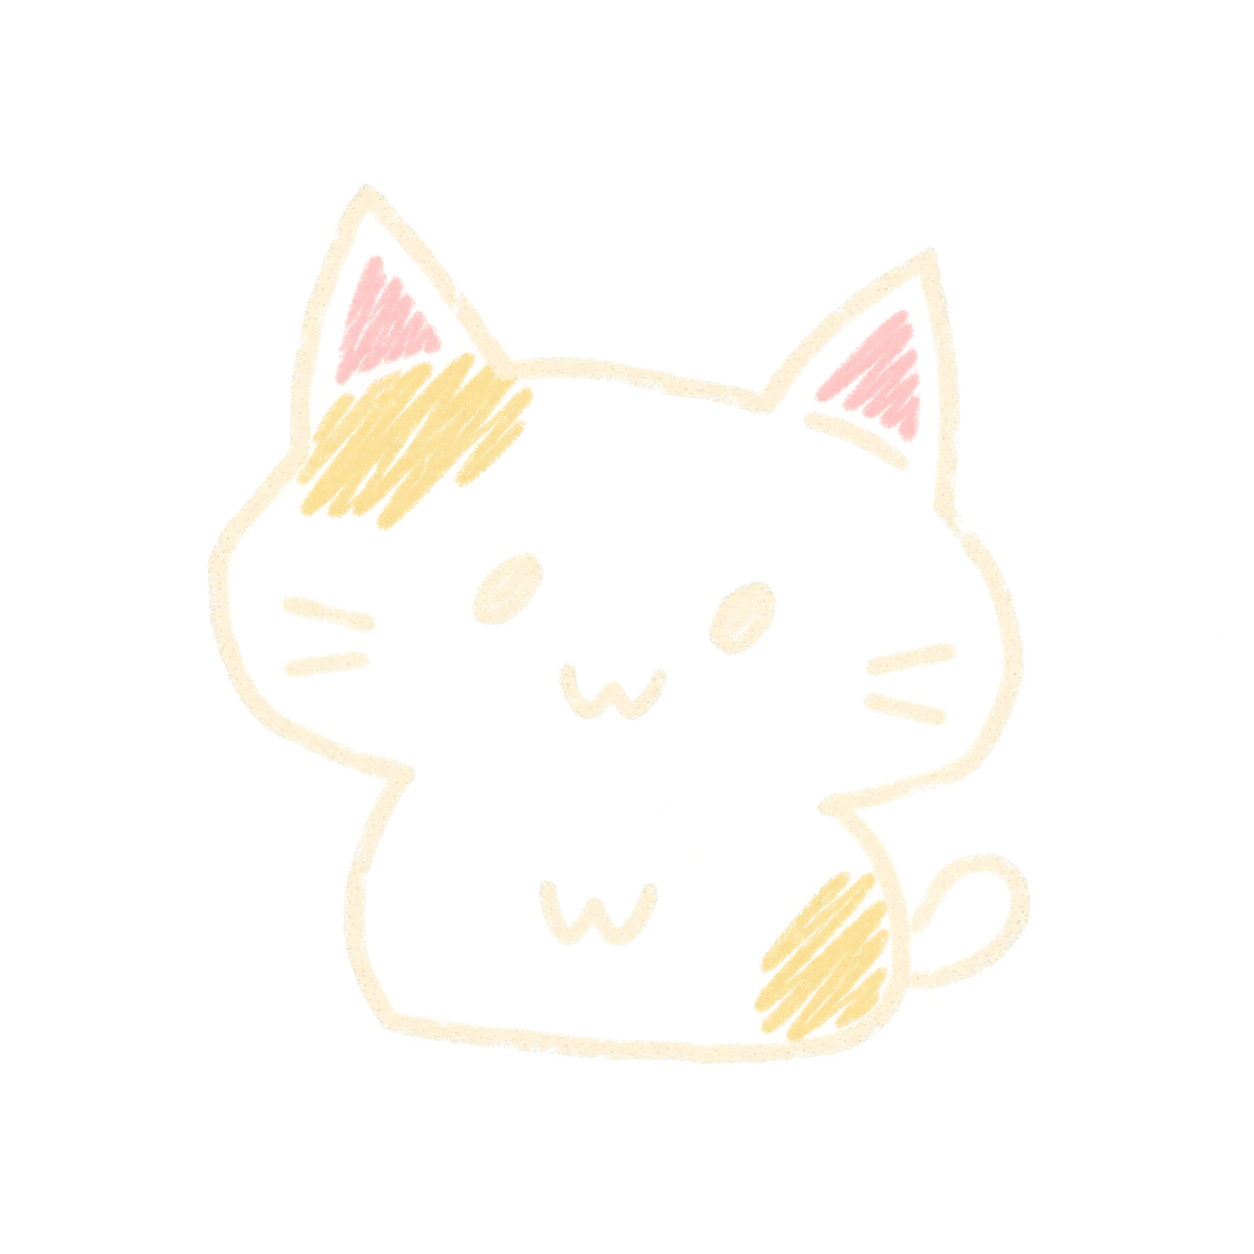
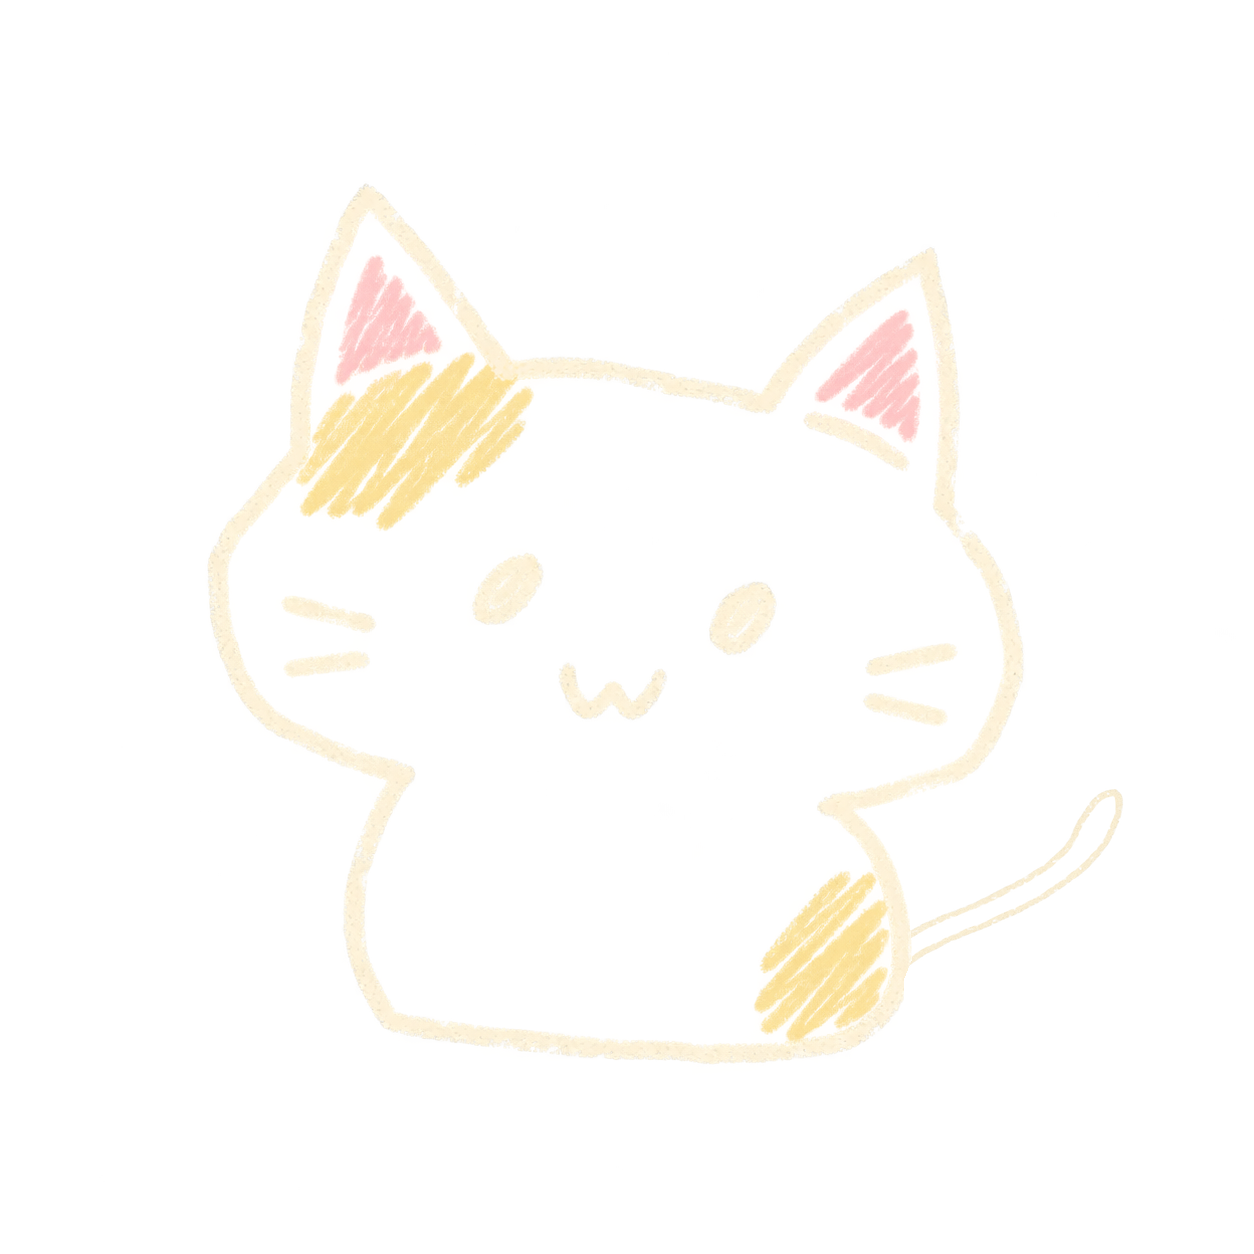
art: refine fixed cat details and match selected balloon reference

Changed region(s): [[0.7153, 0.622, 0.9019, 0.8086], [0.4354, 0.6842, 0.5287, 0.7464]]

diff --git a/public/classroom/chalk/handdrawn/preview.html b/public/classroom/chalk/handdrawn/preview.html
@@ -38,8 +38,8 @@
     <section class="grid" aria-label="四款粉笔图案">
       <article><div class="board"><img class="large" src="heart.webp" alt="柔粉色粉笔爱心" width="512" height="512"><img class="small" src="heart.webp" alt="" width="52" height="52"></div><h2>爱心</h2><div class="files"><a href="heart.webp" download>网页图片</a><a href="heart.png" download>PNG 原图</a></div></article>
       <article><div class="board"><img class="large" src="stars.webp" alt="淡黄、暖白与浅蓝粉笔星星" width="512" height="512"><img class="small" src="stars.webp" alt="" width="52" height="52"></div><h2>星星</h2><div class="files"><a href="stars.webp" download>网页图片</a><a href="stars.png" download>PNG 原图</a></div></article>
-      <article><div class="board"><img class="large" src="balloons.webp?v=7" alt="柔粉、淡黄与浅蓝的三个粉笔气球，绳线带轻微弧度并在中下方汇合" width="512" height="512"><img class="small" src="balloons.webp?v=7" alt="" width="52" height="52"></div><h2>三个气球</h2><div class="files"><a href="balloons.webp" download>网页图片</a><a href="balloons.png" download>PNG 原图</a></div></article>
-      <article><div class="board"><img class="large" src="cat.webp?v=7" alt="暖白粉笔猫咪，双耳大小接近，带淡黄擦涂色块和柔粉耳内" width="512" height="512"><img class="small" src="cat.webp?v=7" alt="" width="52" height="52"></div><h2>猫咪</h2><div class="files"><a href="cat.webp" download>网页图片</a><a href="cat.png" download>PNG 原图</a></div></article>
+      <article><div class="board"><img class="large" src="balloons.webp?v=8" alt="按参考图绘制的淡紫、淡黄与浅蓝三只粉笔气球" width="512" height="512"><img class="small" src="balloons.webp?v=8" alt="" width="52" height="52"></div><h2>三个气球</h2><div class="files"><a href="balloons.webp" download>网页图片</a><a href="balloons.png" download>PNG 原图</a></div></article>
+      <article><div class="board"><img class="large" src="cat.webp?v=8" alt="暖白粉笔猫咪，带淡黄擦涂、柔粉耳内和细长尾巴" width="512" height="512"><img class="small" src="cat.webp?v=8" alt="" width="52" height="52"></div><h2>猫咪</h2><div class="files"><a href="cat.webp" download>网页图片</a><a href="cat.png" download>PNG 原图</a></div></article>
     </section>
     <p class="note">下方小样固定为 52 px。背景颜色来自页面，图片里的空白与粉笔颗粒间隙均为透明区域。</p>
   </main>

diff --git a/public/classroom/chalk/handdrawn/PROMPTS.md b/public/classroom/chalk/handdrawn/PROMPTS.md
@@ -4,7 +4,7 @@
 
 固定配色参考：[原始材质参照](../../../../docs/assets/classroom-approved-material-reference-2026-09-09.png)；配色值来自上一级粉笔素材说明。以下提示词使用文字描述这些要求，生成时没有把旧 SVG 作为编辑目标。
 
-生成图保留真实透明通道；PNG 为未修改的生成原图，WebP 为保持透明度的 512 × 512 网页缩放版本。网页版本仅等比缩小与无损编码，不重新描线或补画。每款对应文件和推荐用法见 [README](README.md)。
+生成图保留真实透明通道。爱心、星星与气球的 PNG 为生成原图，第八版猫咪为保留原图主体的局部合成文件，具体处理见文末记录。WebP 为保持透明度的 512 × 512 网页缩放版本，仅等比缩小与无损编码。每款对应文件和推荐用法见 [README](README.md)。
 
 ## 第一版完整提示词
 
@@ -38,7 +38,7 @@ Subject: ONE very cute simple sitting kitten, front-facing, with a slightly tilt
 
 ## 第二版：气球绳线与猫咪手绘感
 
-2026-09-10，根据用户对气球绳线缺少粉笔感、猫咪过于精致的反馈更新。以下两段是第二版气球和猫咪采用的提示词。第二版气球的粉笔质感获用户认可，后续追加了自然倾角和遮挡关系要求；两款当前采用第七版，见文末记录。爱心和星星沿用第一版。使用内置 imagegen 分别重新生成透明素材，保留原调用地址；前两次图像编辑返回了带棋盘格的非透明文件，未采用。
+2026-09-10，根据用户对气球绳线缺少粉笔感、猫咪过于精致的反馈更新。以下两段是第二版气球和猫咪采用的提示词。第二版气球的粉笔质感获用户认可，后续追加了自然倾角和遮挡关系要求；两款当前采用第八版，见文末记录。爱心和星星沿用第一版。使用内置 imagegen 分别重新生成透明素材，保留原调用地址；前两次图像编辑返回了带棋盘格的非透明文件，未采用。
 
 ### balloons：第二版记录
 
@@ -148,7 +148,7 @@ Add restrained pastel coloring: ONE soft yellow #efd28a patch at upper-left fore
 
 使用内置 imagegen。猫咪的图像编辑尝试未保留真实透明通道，未采用；文字生成的第一张增加了多余的胡须和爪子笔画，采用第二张简化后的透明结果。气球采用第一张文字生成结果。PNG 保留生成原图，WebP 仅等比缩小并无损编码，均通过透明通道检查。旧版存放于 `codex-generated/chalk-handdrawn-2026-09-10/before-revision-7/`。
 
-### balloons：当前版本完整提示词
+### balloons：第七版完整提示词
 
 ```text
 Create ONE isolated transparent PNG web asset of a simple freehand CHALK BUNCH OF THREE BALLOONS. Actual RGBA alpha, no background, no checkerboard, no blackboard or paper. Square composition, clear 10% margin. Three muted pastel balloons: dusty pink #e6b1ba lower-left and in front, pale yellow #efd28a higher middle behind, light blue #a4c5de at right and partly behind pink. Left balloon tilts left about 18 degrees, yellow slightly left about 6 degrees, blue right about 18 degrees. Lopsided hand-drawn elongated ovals with modest overlap, distinct heights, individual small triangular knots. Bodies occupy upper 60% of total drawing height and strings lower 40%.
@@ -156,11 +156,42 @@ MOST IMPORTANT: THREE IVORY CHALK STRINGS WITH JUST A SLIGHT NATURAL ARC, NOT ST
 The strings use the SAME dry chalk thickness as the balloons' colored boundary strokes, about 10-14px at 1254px scale, mildly irregular pressure and tiny chalk skips. Dry chalk grain and transparent gaps break THROUGH the entire line, including its center. Single traces, not double borders, thin pencil, smooth ivory ribbons or thick tubes. Keep rough freehand contours and simple shapes. Interior balloon fills are broad diagonal back-and-forth light side-of-chalk rubbing strokes with visible uneven deposits, see-through gaps and flecks. Same material as a yellow chalk star or pink chalk heart: outline a little stronger than rubbed fill, no grey base, no solid digital coloring. Flat matte muted chalk palette with warm ivory #f5efdb strings. No highlights, gloss, 3D, gradients, shadows, dust clouds, text or extra decorations. Real alpha transparency in background and grain gaps.
 ```
 
-### cat：当前版本完整提示词
+### cat：第七版完整提示词
 
 ```text
 Generate ONE simple chalk cat doodle as actual RGBA TRANSPARENT PNG. Empty background has real alpha, NOT painted checkerboard. Square canvas with FULL 12% clear margin on ALL four sides. No paper, blackboard or surface. Subject only.
 The silhouette MUST look like an ordinary person's quickly drawn chalk sketch, with visible changes of direction and stop/start joins. A very wide slightly squarish head flows into a short squat body, two MEDIUM TRIANGULAR EARS OF NEARLY EQUAL HEIGHT AND WIDTH. Each ear is about 180 pixels tall measured from its own local forehead base and about 190 pixels wide on the 1254px canvas. Left and right ear sizes differ by no more than 5-8 percent. Both are modest normal cat ears, neither huge or rabbit-like; their tips differ only slightly in position because whole cat is tilted a little clockwise. Their gentle natural asymmetry must not become one big ear and one tiny ear. Outer cheeks are drawn with three imperfect long strokes each: one slanted flatter stretch, one mild angled corner, one curved return. BELLY BOTTOM IS A SLIGHTLY SLANTED FLAT STROKE with imperfect corners. Ears have kinked straight-ish sides and slightly blunt points. Draw naturally by hand, not an exact polygon; avoid continuous perfectly round outlines. Those few asymmetries and angled turns should be visible at small icon size. This is a naive simple doodle, not polished character illustration.
 Use warm IVORY #f5efdb dry chalk. Medium thin lines of varying pressure, roughly 10-16 pixels in a 1254px square, broken granular deposit through each stroke, occasional tiny interruptions where the chalk lifts; no smooth tubes, no uniform round line caps. NO white dust clouds or white underpainting. All interior empty spaces are TRANSPARENT. Eyes: two SMALL slightly unequal chubby tilted ovals, filled with grainy ivory chalk scribbling. Smile: one tiny handwritten lowercase w, NO nose. Exactly TWO short uneven whisker dashes inside each cheek, not three. Inner ears simple triangles of similar size. Head and little body share one connected interior with no divider. The ONLY PAW MARK is ONE small handwritten lower-case w formed by TWO downward U-shaped loops joined in the middle. This SINGLE small w is centered inside the body slightly ABOVE outer belly with clear gap below; no separate legs, no circles, NO curled feet, NO toes, no third loop, NEVER two w marks. Small EMPTY loop tail behind lower-right body.
 Add restrained pastel coloring: ONE soft yellow #efd28a patch at upper-left forehead near left ear, ONE smaller yellow patch at lower-right body, a little pink #e6b1ba inside both inner-ear triangles. Face center, most cheeks, most body and tail remain empty transparent. Color patches have NO border. Draw their fill using a few broad short diagonal back-and-forth chalk rubbing strokes with visibly uneven coverage and see-through grain gaps, like a chalk-colored yellow star or pink heart. Clearly show separate chalk strokes and streaks, not smooth solid digital fill, not gradients or shading. Pigment texture gentle and readable. Cute, warm, quiet, simple, handmade. No extra details or surrounding decoration, no shadows or text. Do not smooth the wonky shape. Entire drawing including both ears and belly comfortably inside clear canvas margins. True transparent PNG.
+```
+
+## 第八版：猫咪局部定稿与用户指定三只气球
+
+2026-09-11，用户在第七版猫咪上标注腹部笔画与右侧尾巴，并明确其余部分固定。随后提供新的气球参考，指定仅保留标注的三只气球。本版同时完成两项要求。
+
+### cat：局部编辑范围与固定区域
+
[1 lines of base64/hex data omitted]
+
+猫咪主体不重新生成。用内置 imagegen 单独生成透明尾巴，等比缩放后在原尾巴区域局部合成，保留身体交接处。PNG 中两个局部遮罩之外的 RGBA 像素与原图逐像素一致，变化像素数为 0。已单独检查原有耳朵、面部和两处淡黄色块的保留情况。编辑脚本、遮罩坐标与验证记录保存在项目 `codex-generated/chalk-handdrawn-2026-09-10/revision-8/`。
+
[1 lines of base64/hex data omitted]
+
+### cat：当前尾巴插图的完整生成提示词
+
+```text
+Generate a SINGLE ISOLATED CAT TAIL INSERT for a chalk drawing, as a real RGBA PNG with fully transparent background. Draw ONLY a slim elongated hollow tail outline, no cat, body or face. The tail sweeps diagonally from lower-left to upper-right at about 35 degrees above horizontal. Shape is a long narrow slightly bent U: two nearby open ends at lower-left ROOT, the upper outline runs toward upper-right and makes a softly pointed rounded tip, then returns parallel but imperfectly along the lower outline to the second root end. The interior stays transparent. The overall long axis is approximately FIVE TIMES its short axis. This looks like a slender elongated cat tail with a small empty interior, NOT a round ring, handle, circle, coiled spiral or ribbon. Slightly irregular freehand shape, a few tiny angular turns, a charming quickly chalk-sketched outline. Whole insert centered in a transparent square with comfortable clear margin. Drawing extent about 85% canvas width and about 60% canvas height, including its diagonal orientation.
+Material must match an existing simple classroom chalk cat: warm ivory #f5efdb, dry chalk with crumbly grain THROUGH each stroke, slightly uneven pressure, occasional chalk skips and tiny transparent flecks. Use one substantial but not bulky chalk trace along the contour. At 1254px canvas scale the chalk stroke should be roughly 40-55px thick, so when the complete tail is reduced to 230-250px wide the line becomes 10-13px thick. Warm matte ivory only. No smooth opaque tubes, no dark color, no solid fill in the tail, no glossy edges, no gradient, no white dust clouds beyond actual strokes. Background and interior are ACTUAL alpha transparency, not painted checkerboard, black or white paper. No environment, shadow, text, dots, arrows, ornaments, whiskers, body part, face or paws. Just one hollow narrow elongated freehand ivory chalk tail open at its lower-left root.
+```
+
+### balloons：当前参考与完整生成提示词
+
+用户参考图标注 1 为 x=45.5%、y=55.2% 的紫色气球，标注 2 为 x=49.1%、y=37.3% 的黄色气球，标注 3 为 x=68.7%、y=51.6% 的蓝色气球。仅绘制这三只，采用黄色较高、紫色左下受遮挡、蓝色右侧前景的关系；实物的光泽和涂色转换为项目的哑光粉笔擦涂，绳线保留少量弧度。参考原图保存在 `revision-8/balloons-user-reference.png`，不放入网页素材包。使用内置 imagegen 按对参考的描述生成真实透明图。
+
+```text
+Use case: stylized-concept. Generate an original hand-drawn CHALK version of exactly THREE selected balloons from a photo, as actual transparent RGBA PNG. This is a flat dry-chalk web motif for a cozy grey-green classroom board; no board or background in the file. The selected photo balloons are PURPLE at lower-left, YELLOW above it, and BLUE on the right. Draw ONLY these three balloons, not the other pink, mint, cyan, orange or red balloons in the photograph. Preserve the selected trio's overlapping arrangement and natural shape; render entirely in the established chalk style, NOT photography.
+Precise composition on 1254x1254 square with real transparent margins: YELLOW balloon highest, centered approximately (550,295), about 280px wide and 335px tall, almost upright with a slight left tilt of 3 degrees. PURPLE balloon lower-left, centered approximately (480,550), about 280px wide and 345px tall, gently leaning left about 10 degrees; its upper-right portion is visibly OCCLUDED by the yellow balloon, it sits behind yellow. BLUE balloon to the right and in front, centered approximately (755,455), about 290px wide and 335px tall, leaning gently right around 10 degrees; blue overlaps the lower-right edge of yellow and the upper-right side of purple. Thus yellow is highest, purple is lowest, and blue is at intermediate height on the right. Do not arrange in a symmetric horizontal row and do not put blue at the very top. Keep shapes simple, naturally lopsided oval/teardrop latex-balloon silhouettes with small triangular knots. The whole group stays narrower than its height, matching the selected three balloons in the reference rather than spreading across the square.
+Colors: soft muted lavender #b7afd0 for purple, pastel yellow #efd28a for yellow, pale blue #a4c5de for blue, warm ivory #f5efdb for strings. Actual colors come entirely from visibly applied chalk: slightly irregular colored outlines and broad short diagonal back-and-forth side-of-chalk RUBBING with patchy coverage, see-through grain holes and broken streaks. Fills lighter than outline. No solid digital fill, latex gloss, bright highlights, shading, gradients, 3D volume or realistic reflection. Preserve a quiet matte classroom palette and quick handmade simplicity.
+Exactly THREE distinct warm-ivory chalk strings starting at their respective visible knots at different heights and ending at ONE common point approximately (630,1125), directly below the trio. Yellow string is longest and passes behind the foreground balloons where occluded; purple string starts lowest and is shortest, blue string has intermediate length. Each main string has ONLY A SLIGHT SHALLOW ARC, not a rigid straight rod, no large S curves or sideways sweeping. Aim toward the common lower anchor with small natural freehand bends. Use ONE granular chalk stroke for each string, SAME visual stroke width as the balloon colored outlines, about 10-15px on the 1254px canvas; mild pressure variation, tiny interruptions and transparent grain THROUGH the stroke center. No smooth creamy ribbons, no hairline pencil, no double outlines, no decorative loops, bows, weights or knots at the common endpoint.
+Freehand irregular geometry, gently uneven curves and little chalk skips rather than perfect vector ellipses. Original simple cute chalk drawing, no lettering, numbers, labels, watermark, logos, checkerboard pattern, paper, surface, shadows or extra balloons. Entire motif with all strings contained inside square with at least 9% clear padding. Genuine alpha transparency in all empty areas and chalk grain gaps.
 ```

diff --git a/public/classroom/chalk/handdrawn/README.md b/public/classroom/chalk/handdrawn/README.md
@@ -1,8 +1,8 @@
 # 手绘粉笔图案
 
-这一套用于当前教室的灰绿色黑板，配色沿用暖白、淡黄、柔粉和浅蓝。四款素材各自独立，背景透明，粉笔线条和涂色中的颗粒空隙可以透出网页背景。
+这一套用于当前教室的灰绿色黑板，主要使用暖白、淡黄、柔粉和浅蓝；第八版气球根据用户指定参考增加淡紫。四款素材各自独立，背景透明，粉笔线条和涂色中的颗粒空隙可以透出网页背景。
 
-2026-09-11 第七版更新：气球的三根绳线增加轻微弧度，继续朝气球组中下方汇合，保持与气球边缘接近的笔画粗细。猫咪的双耳改为接近的大小，保留少量徒手差异与整体轻微倾斜；额头和身体一侧的淡黄擦涂、耳内柔粉沿用上一版的配色与分布，轮廓继续保留手绘转折。两款 PNG 和 WebP 已一同更新，文件地址沿用原路径。网上参考与采用方式见 [REFERENCES.md](REFERENCES.md)。
+2026-09-11 第八版更新：猫咪去除腹部中间的 w 形笔画，右侧尾巴改为细长形状；两处局部区域外的原图像素保持不变，保留已确认的颜色与徒手轮廓。气球按用户新参考图仅绘制标注的三只：黄色较高，紫色位于左下并受遮挡，蓝色在右侧前方；保留粉笔擦涂和轻微弯曲的绳线。两款 PNG 和 WebP 已更新，文件地址沿用原路径。参考与采用方式见 [REFERENCES.md](REFERENCES.md)。
 
 | 图案 | 标识 | 网页文件 | 原始文件 |
 | --- | --- | --- | --- |
@@ -11,7 +11,7 @@
 | 三个气球 | `balloons` | [balloons.webp](balloons.webp) | [balloons.png](balloons.png) |
 | 猫咪 | `cat` | [cat.webp](cat.webp) | [cat.png](cat.png) |
 
-PNG 保留生图原件。WebP 为 512 × 512 像素，保留完整透明通道，按无损模式编码；缩小后适合常用的 160 像素展示尺寸，也可用于 52 像素的小图案。空白边缘是构图的一部分，图片应等比缩放，避免拉伸。
+爱心、星星与气球的 PNG 保留生图原件；猫咪 PNG 使用已确认原图与单独生成的尾巴素材作局部合成，修改范围和验证结果见 [PROMPTS.md](PROMPTS.md)。WebP 为 512 × 512 像素，保留完整透明通道，按无损模式编码；缩小后适合常用的 160 像素展示尺寸，也可用于 52 像素的小图案。空白边缘是构图的一部分，图片应等比缩放，避免拉伸。
 
 ## 网页调用
 

diff --git a/public/classroom/chalk/handdrawn/REFERENCES.md b/public/classroom/chalk/handdrawn/REFERENCES.md
@@ -11,9 +11,14 @@
 | [Misty Daydream：Tri Colors Chrome Layer Bouquet](https://mistydaydream.com/product/helium-inflated-balloons-tri-colors-chrome-layer-bouquet/) | 照片是多层气球组合，用于辅助观察绳线汇合后的下垂方向，不采用其数量与排列。 |
 | [NOW ITS A PARTY：3 Balloon Helium Bouquet](https://www.shopnowitsaparty.com/products/3-balloon-helium-bouquet) | 查看的是含 Tassel + Balloon Weight 字样的局部图，绳线朝配重方向汇合。仅辅助观察连接方向。 |
 
-最终气球采用三根独立的暖白粉笔线，中间接近竖直，两侧向组中心下方轻微倾斜；线条保留徒手偏差，宽度接近气球边缘。气球的不同倾角与前后关系继续通过形状和遮挡表达。
+第六版气球采用三根独立的暖白粉笔线，中间接近竖直，两侧向组中心下方轻微倾斜；线条保留徒手偏差，宽度接近气球边缘。气球的不同倾角与前后关系通过形状和遮挡表达。当前第八版的构图以用户新提供的参考图为准，见下文。
 
 猫咪的涂色参考项目现有 [爱心](heart.png) 与 [星星](stars.png)：以几笔斜向往返擦涂构成色块，留下不均匀的笔画接缝与透明颗粒；额头和身体一侧使用淡黄，耳内少量柔粉，脸部中央与大部分身体保持透明。猫咪继续沿用用户参考画中的不等高耳朵与小身体造型，轮廓保留徒手转折。
 
 检索导出的八张图片中实际目视比较了以上六张。导出清单与图片保存在项目 `codex-generated/chalk-handdrawn-2026-09-10/references-v6/`，原图的来源地址可在导出清单中核对。此处商品链接来自图片预览显示的来源地址，未把商品描述作为画法依据。
 
+## 第八版：用户指定气球参考
+
+用户在新参考图中指定三只气球：标注 1 为左下紫色气球，标注 2 为中间较高的黄色气球，标注 3 为右侧蓝色气球。当前版本只绘制这三只，并按参考保留其高低位置和前后遮挡；使用低饱和淡紫、淡黄与浅蓝粉笔色，不绘制参考中的其他气球，也不采用摄影光泽。
+
+三根绳线从各自结口向下方汇合，保留轻微弧度与粉笔颗粒。用户参考原图存放于项目 `codex-generated/chalk-handdrawn-2026-09-10/revision-8/balloons-user-reference.png`，仅用于制作参考，不包含在网页素材包中。
